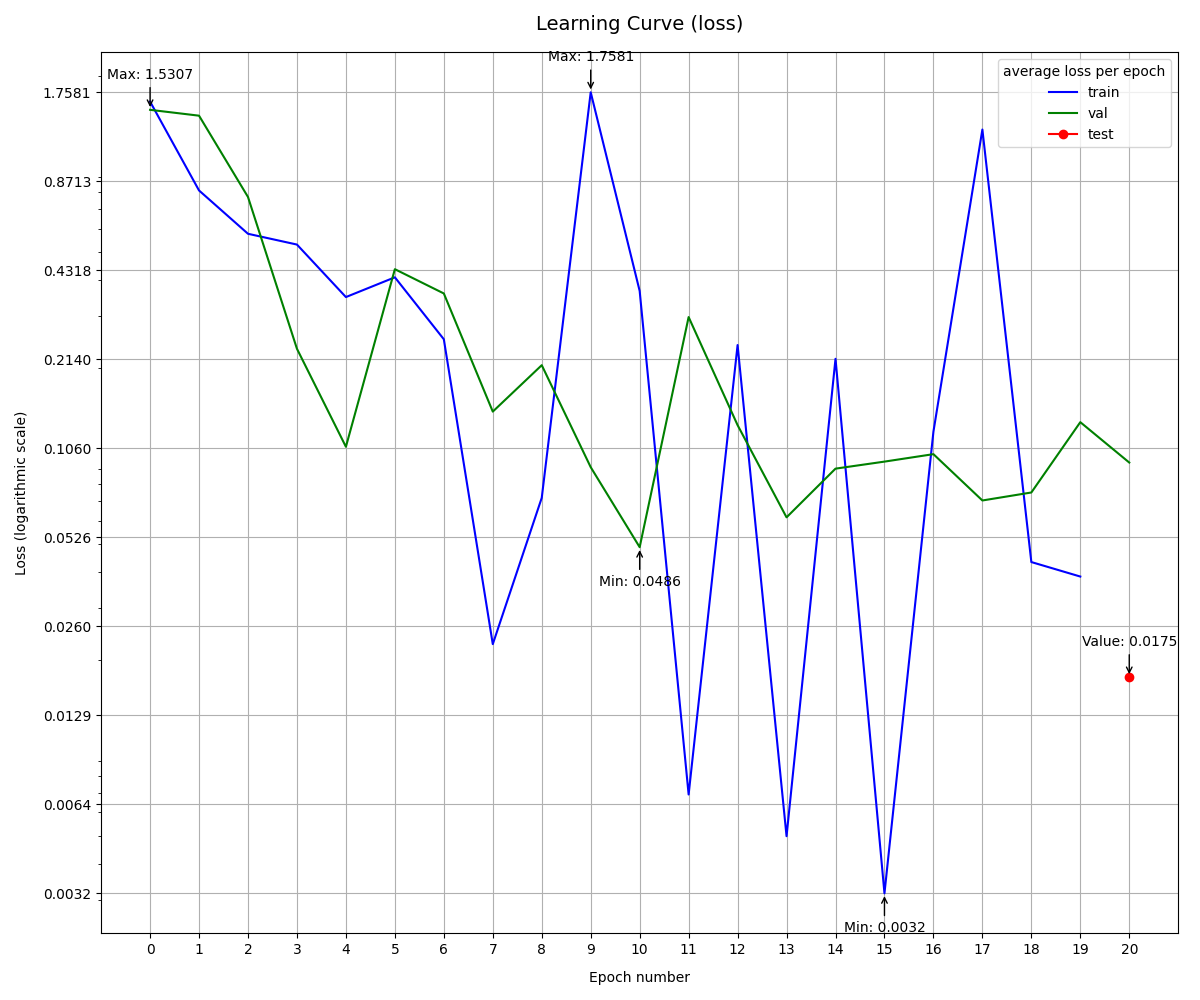
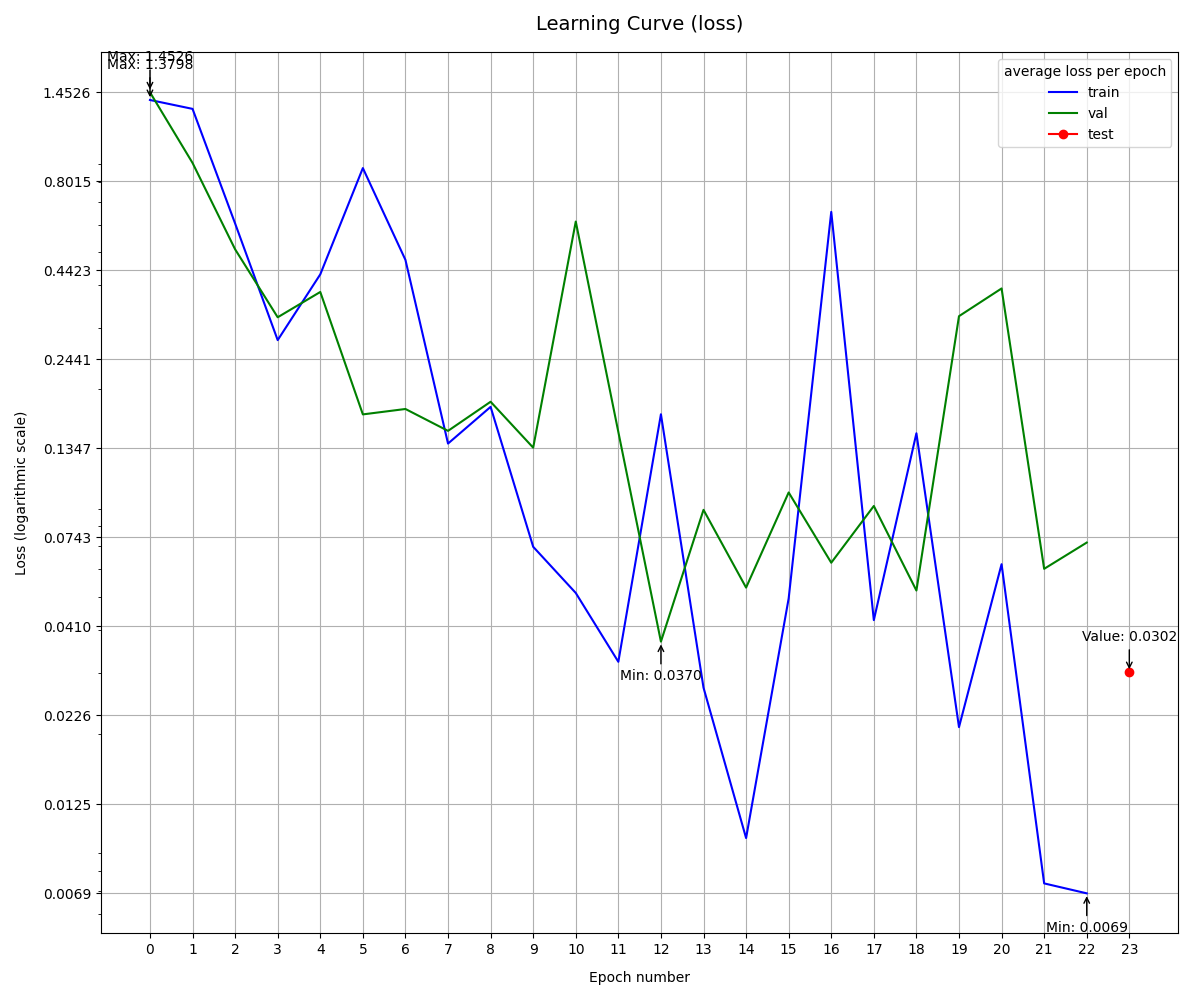
fix: fix metric calculation (#23)
* Take preds not logits as arguemnt

* Initiate metrics inside lightning module

* Remove metrics package

* Remove metrics config. Make metrics weighted

* Remove metrics

* Remove mdetrics config

* SKip metrics for sanity checking

* Update plots & add multilabel classification

* Update plots

* Change train/val/test split

diff --git a/src/machine_learning/classification/module.py b/src/machine_learning/classification/module.py
@@ -5,14 +5,13 @@ from lightning import LightningModule
 from torch import Tensor
 from torch.optim import Optimizer
 from torch.optim.lr_scheduler import LRScheduler
+from torchmetrics import Accuracy, F1Score, MetricCollection, Precision, Recall
 
 from src.common.consts.machine_learning import STAGE_TESTING, STAGE_TRAINING, STAGE_VALIDATION
 from src.machine_learning.augmentations.config import AugmentationsConfig
 from src.machine_learning.augmentations.factory import create_augmentations
 from src.machine_learning.classification.loss_functions.config import ClassificationLossFunctionConfig
 from src.machine_learning.classification.loss_functions.factory import create_loss_function
-from src.machine_learning.classification.metrics.config import ClassificationMetricsConfig
-from src.machine_learning.classification.metrics.factory import create_metrics
 from src.machine_learning.classification.models.config import ClassificationModelConfig
 from src.machine_learning.classification.models.factory import create_model
 from src.machine_learning.optimizer.config import OptimizerConfig
@@ -34,7 +33,6 @@ class ClassificationLightningModule(LightningModule):
         model_config (ClassificationModelConfig): The model configuration.
         loss_function_config (ClassificationLossFunctionConfig): The loss function configuration.
         optimizer_config (OptimizerConfig): The optimizer configuration.
-        metrics_config (ClassificationMetricsConfig): The metrics configuration.
         augmentations_config (Optional[AugmentationsConfig]): The data augmentations configuration.
         scheduler_config (Optional[SchedulerConfig]): The scheduler configuration.
 
@@ -57,7 +55,6 @@ class ClassificationLightningModule(LightningModule):
         model_config: ClassificationModelConfig,
         loss_function_config: ClassificationLossFunctionConfig,
         optimizer_config: OptimizerConfig,
-        metrics_config: ClassificationMetricsConfig,
         augmentations_config: Optional[AugmentationsConfig] = None,
         scheduler_config: Optional[SchedulerConfig] = None,
     ):
@@ -66,13 +63,23 @@ class ClassificationLightningModule(LightningModule):
         self.model_config = model_config
         self.loss_function_config = loss_function_config
         self.optimizer_config = optimizer_config
-        self.metrics_config = metrics_config
         self.augmentations_config = augmentations_config
         self.scheduler_config = scheduler_config
 
         self.model = create_model(config=model_config)
         self.loss_function = create_loss_function(config=loss_function_config)
-        self.metrics = create_metrics(config=metrics_config)
+        self.metrics = MetricCollection(
+            [
+                Accuracy(task="multiclass", num_classes=len(self.classes), average="weighted"),
+                Precision(task="multiclass", num_classes=len(self.classes), average="weighted"),
+                Recall(task="multiclass", num_classes=len(self.classes), average="weighted"),
+                F1Score(task="multiclass", num_classes=len(self.classes), average="weighted"),
+            ]
+        )
+        self.train_metrics = self.metrics.clone(prefix=f"{STAGE_TRAINING}_")
+        self.val_metrics = self.metrics.clone(prefix=f"{STAGE_VALIDATION}_")
+        self.test_metrics = self.metrics.clone(prefix=f"{STAGE_TESTING}_")
+
         self.augmentations = create_augmentations(config=augmentations_config) if augmentations_config else None
 
     def forward(self, x: Tensor) -> Tensor:
@@ -98,7 +105,16 @@ class ClassificationLightningModule(LightningModule):
         preds = logits.argmax(dim=1)
 
         self.log(name=f"{stage}_loss", value=loss)
-        self.log_metrics(logits=logits, targets=y, stage=stage)
+
+        if stage == STAGE_TRAINING:
+            metrics = self.train_metrics
+        elif stage == STAGE_VALIDATION:
+            metrics = self.val_metrics
+        else:
+            metrics = self.test_metrics
+
+        output = metrics(logits, y)
+        self.log_dict(output, on_step=(stage == STAGE_TRAINING), on_epoch=True)
 
         return {"loss": loss, "per_sample_losses": per_sample_losses, "preds": preds, "targets": y}
 
@@ -140,6 +156,26 @@ class ClassificationLightningModule(LightningModule):
             Dict[str, Tensor]: Testing loss.
         """
         return self.evaluation_step(batch=batch, batch_idx=batch_idx, stage=STAGE_TESTING)
+
+    def compute_and_log_metrics(self, metrics: MetricCollection) -> None:
+        """
+        Compute and log metrics for a given stage, and reset them.
+
+        Args:
+            metrics (MetricCollection): The metrics to compute and log.
+        """
+        output = metrics.compute()
+        self.log_dict(output)
+        metrics.reset()
+
+    def on_train_epoch_end(self) -> None:
+        self.compute_and_log_metrics(self.train_metrics)
+
+    def on_validation_epoch_end(self) -> None:
+        self.compute_and_log_metrics(self.val_metrics)
+
+    def on_test_epoch_end(self) -> None:
+        self.compute_and_log_metrics(self.test_metrics)
 
     def on_after_batch_transfer(self, batch: Tuple[Tensor, Tensor], dataloader_idx: int) -> Tuple[Tensor, Tensor]:
         """
@@ -191,32 +227,3 @@ class ClassificationLightningModule(LightningModule):
             Tensor: The computed loss.
         """
         return self.loss_function(logits, targets)
-
-    def log_metrics(self, logits: Tensor, targets: Tensor, stage: str) -> None:
-        """
-        Log metrics to the logger, including class-wise metrics.
-
-        Args:
-            logits (Tensor): The model outputs before activation.
-            targets (Tensor): The true labels.
-            stage (str): The current stage (e.g., training, validation, or testing).
-        """
-        preds = logits.argmax(dim=1)
-
-        for name, metric in self.metrics.items():
-            # Overall metric
-            metric_value = metric(preds, targets)
-            self.log(name=f"{stage}_{name}", value=metric_value, on_step=True, on_epoch=True)
-
-            # Class-wise metrics
-            for class_idx, class_name in self.classes.items():
-                class_targets = (targets == class_idx).int()
-                class_preds = (preds == class_idx).int()
-                class_metric_value = metric(class_preds, class_targets)
-
-                self.log(
-                    name=f"{stage}_{name}_class_{class_idx}_{class_name}",
-                    value=class_metric_value,
-                    on_step=True,
-                    on_epoch=True,
-                )

diff --git a/src/aml/components/classificator_training/arg_parser.py b/src/aml/components/classificator_training/arg_parser.py
@@ -23,7 +23,6 @@ from src.common.utils.dtype_converters import str_to_bool, str_to_dict, str_to_f
 from src.machine_learning.augmentations.config import AugmentationsConfig
 from src.machine_learning.callbacks.config import CallbacksConfig
 from src.machine_learning.classification.loss_functions.config import ClassificationLossFunctionConfig
-from src.machine_learning.classification.metrics.config import ClassificationMetricsConfig
 from src.machine_learning.classification.models.config import ClassificationModelConfig
 from src.machine_learning.loggers.config import LoggersConfig
 from src.machine_learning.optimizer.config import OptimizerConfig
@@ -65,7 +64,6 @@ def create_arg_parser() -> ArgumentParser:
     loss_function_defaults: Dict[str, Any] = defaults.get("loss_function", None)
     optimizer_defaults: Dict[str, Any] = defaults.get("optimizer", None)
     scheduler_defaults: Dict[str, Any] = defaults.get("scheduler", None)
-    metrics_defaults: Dict[str, Any] = defaults.get("metrics", None)
     augmentations_defaults: Dict[str, Any] = defaults.get("augmentations", None)
     callbacks_defaults: Dict[str, Any] = defaults.get("callbacks", None)
     callbacks_early_stopping_defaults: Dict[str, Any] = callbacks_defaults.get("early_stopping", None)
@@ -124,17 +122,6 @@ def create_arg_parser() -> ArgumentParser:
     parser.add_argument(
         "--scheduler_kwargs", type=str, default=scheduler_defaults["extra_arguments"] if scheduler_defaults else {}
     )
-
-    # Metrics
-    parser.add_argument("--task_type", type=str, default=metrics_defaults["task"])
-    for i in range(5):
-        metric_default = metrics_defaults["name_list"][i] if i < len(metrics_defaults["name_list"]) else None
-        metric_kwargs_default = (
-            metrics_defaults["extra_arguments_list"][i] if i < len(metrics_defaults["extra_arguments_list"]) else "{}"
-        )
-
-        parser.add_argument(f"--metric_name_{i + 1}", type=str, default=metric_default)
-        parser.add_argument(f"--metric_name_{i + 1}_kwargs", type=str, default=metric_kwargs_default)
 
     # Augmentations
     for i in range(5):
@@ -325,18 +312,6 @@ def get_config(save_config: bool = False) -> ClassificationConfig:
             "name": args.scheduler_name,
             "extra_arguments": str_to_dict(args.scheduler_kwargs),
         },
-        "metrics": {
-            "name_list": [
-                getattr(args, f"metric_name_{i+1}") for i in range(5) if getattr(args, f"metric_name_{i+1}") is not None
-            ],
-            "extra_arguments_list": [
-                str_to_dict(getattr(args, f"metric_name_{i+1}_kwargs"))
-                for i in range(5)
-                if getattr(args, f"metric_name_{i+1}") is not None
-            ],
-            "task": args.task_type,
-            "num_classes": args.num_classes,
-        },
         "augmentations": {
             "name_list": [
                 getattr(args, f"augmentation_name_{i+1}")
@@ -425,7 +400,6 @@ def get_config(save_config: bool = False) -> ClassificationConfig:
     scheduler_config = (
         SchedulerConfig(**config_dict["scheduler"]) if config_dict["scheduler"]["name"] is not None else None
     )
-    metrics_config = ClassificationMetricsConfig(**config_dict["metrics"])
     augmentations_config = AugmentationsConfig(**config_dict["augmentations"])
     callbacks_config = CallbacksConfig(**config_dict["callbacks"])
     loggers_config = LoggersConfig(**loggers_config_dict)
@@ -438,7 +412,6 @@ def get_config(save_config: bool = False) -> ClassificationConfig:
         loss_function=loss_function_config,
         optimizer=optimizer_config,
         scheduler=scheduler_config,
-        metrics=metrics_config,
         augmentations=augmentations_config,
         callbacks=callbacks_config,
         loggers=loggers_config,

diff --git a/src/aml/components/classificator_training/config.py b/src/aml/components/classificator_training/config.py
@@ -7,7 +7,6 @@ from src.configs.base import MachineLearningConfig
 from src.machine_learning.augmentations.config import AugmentationsConfig
 from src.machine_learning.callbacks.config import CallbacksConfig
 from src.machine_learning.classification.loss_functions.config import ClassificationLossFunctionConfig
-from src.machine_learning.classification.metrics.config import ClassificationMetricsConfig
 from src.machine_learning.classification.models.config import ClassificationModelConfig
 from src.machine_learning.loggers.config import LoggersConfig
 from src.machine_learning.optimizer.config import OptimizerConfig
@@ -25,7 +24,6 @@ class ClassificationConfig(MachineLearningConfig):
     loss_function: ClassificationLossFunctionConfig
     optimizer: OptimizerConfig
     scheduler: Optional[SchedulerConfig] = None
-    metrics: ClassificationMetricsConfig
     augmentations: Optional[AugmentationsConfig] = None
     callbacks: Optional[CallbacksConfig] = None
     loggers: Optional[LoggersConfig] = None

diff --git a/src/aml/components/classificator_training/entrypoint.py b/src/aml/components/classificator_training/entrypoint.py
@@ -29,7 +29,6 @@ def main() -> None:
         model_config=config.model,
         loss_function_config=config.loss_function,
         optimizer_config=config.optimizer,
-        metrics_config=config.metrics,
         augmentations_config=config.augmentations,
         scheduler_config=config.scheduler,
     )
@@ -58,7 +57,6 @@ def main() -> None:
         model_config=config.model,
         loss_function_config=config.loss_function,
         optimizer_config=config.optimizer,
-        metrics_config=config.metrics,
         augmentations_config=config.augmentations,
         scheduler_config=config.scheduler,
     )

diff --git a/src/machine_learning/callbacks/learning_curve.py b/src/machine_learning/callbacks/learning_curve.py
@@ -235,6 +235,11 @@ class LearningCurveCallback(Callback):
             trainer (Trainer): The Trainer object.
             stage (str): The stage name (training, validation, or test).
         """
+        # Skip updates during sanity checks
+        if trainer.sanity_checking:
+            _logger.info("Skipping collecting values during sanity check.")
+            return
+
         loss = trainer.callback_metrics.get(f"{stage}_loss")
         if loss is not None:
             self.epoch_losses[stage].append(loss.item())

diff --git a/src/configs/base.py b/src/configs/base.py
@@ -21,7 +21,6 @@ class MachineLearningConfig(BaseModel):
     loss_function: BaseModel
     optimizer: BaseModel
     scheduler: Optional[BaseModel] = None
-    metrics: BaseModel
     augmentations: Optional[BaseModel] = None
     callbacks: Optional[BaseModel] = None
     loggers: Optional[BaseModel] = None

diff --git a/README.md b/README.md
@@ -50,7 +50,15 @@ For detailed information on installation, development practices, and the project
 The Droplet Drug Detector (DDD) project aims to revolutionize pharmaceutical analysis by using advanced machine learning to analyze high-resolution microscopic images of dried droplets. This cutting-edge approach is designed to improve the identification and quantification of substances, thereby enhancing drug analysis and quality control.
 
 ### Dataset
-The dataset comprises high-resolution microscopic images of various droplet samples, with each droplet being a few microliters in volume. For each substance, approximately 200-300 images of different concentrations are captured under controlled conditions to ensure data consistency and reliability. The dataset includes images of substances like gelatin capsules, lactose, methyl-cellulose, naproxen, pearlitol, and polyvinyl-alcohol.
+The dataset comprises high-resolution microscopic images of various droplet samples, with each droplet being a few microliters in volume. Approximately 2000 images of substance droplets of different concentrations were captured under controlled conditions to ensure data consistency and reliability. The dataset includes images of the following substances:
+- gelatin capsules,
+- lactose,
+- methyl-cellulose,
+- naproxen,
+- pearlitol
+- polyvinyl-alcohol.
+
+Future expansions of the dataset will include images of droplets containing mixtures of these substances.
 
 #### Theoretical basis
 This project is based on the study of patterns formed in dried droplets, commonly referred to as the 'coffee ring effect'. These patterns are influenced by the substance's physical and chemical properties, concentration, and interaction within the mixture, providing valuable information for substance analysis.
@@ -73,11 +81,12 @@ Images are captured under strictly controlled conditions to guarantee data consi
 
 ### Analysis goals
 
-1. **Substance Classification**: Develop a model to classify substances based on distinct patterns in dried droplet images, using Convolutional Neural Networks (CNNs) and Vision Transformers.
+1. **Single-Substance Classification**: Develop a model to classify individual substances based on the patterns in dried droplet images.
+2. **Multiple-Substance Classification**: Extend the model to classify mixtures of substances, addressing the added complexity of inter-substance interactions.
 2. **Concentration Estimation**: Design and implement regression models to accurately estimate the concentration levels of the substances. We aim to introduce novel methodologies in this area.
 3. **Rare Substance Detection**: Develop a Siamese network-based approach for identifying rare substances. This network will be trained on existing data, emphasizing its utility in scenarios with limited sample availability.
 
-### Substance Classification
+### Single-Substance Classification
 
 (Work in progress)
 
@@ -85,27 +94,43 @@ Images are captured under strictly controlled conditions to guarantee data consi
 A few experiments were conducted to determine a baseline model and hyperparameters for further experiments.
 
 - **Epochs**: 50 (max), with early stopping implemented to prevent overfitting.
-- **Data Split**: Stratified split (50:25:25 for training, validation & test subsets) across substances and concentration levels.
+- **Data Split**: Stratified split (10:10:80 for training, validation & test subsets) across substances and concentration levels.
 - **Preprocessing**: Normalization, resizing to 256x256 pixels.
 - **Data Augmentation**: Color jitter, random gaussian noise, mirroring, and rotation.
-- **Model Architecture**: Resnet18.
+- **Model Architecture**: ResNet18.
 - **Loss Function**: Cross-entropy.
 - **Optimizer**: Adam with a constant learning rate of 3e-4.
 
 <table>
   <tr>
-    <td align="center"><em>Learning curves</em></td>
-    <td align="center"><em>Confusion matrix</em></td>
+    <td align="center"><em>Learning curves (loss)</em></td>
+    <td align="center"><em>Learning curves (F1 score)</em></td>
   </tr>
   <tr>
-    <td><img src="assets/learning_curves/learning_curve_loss.png" width="100%" alt="Learning curves"/></td>
-    <td><img src="assets/confusion_matrix/confusion_matrix.png" width="100%" alt="Confusion matrix"/></td>
+    <td><img src="assets/learning_curves/learning_curve_loss.png" width="100%" alt="Learning curves (loss)"/></td>
+    <td><img src="assets/learning_curves/learning_curve_f1.png" width="100%" alt="Learning curves (F1 score)"/></td>
   </tr>
 </table>
 
 #### Model Evaluation
-- **Metrics**: Accuracy, F1 score, precision, and recall.
-- **Results**: Our initial experiments yielded a very high F1-score (**0.9933**), indicating robust model performance.
+- **Metrics**: Accuracy, precision, recall and F1 score.
+- **Results**: Our initial experiments yielded a very high F1-score (**0.9933**) on the **test set**, indicating robust model performance.
+
+| Experiment      | Accuracy   | Precision   | Recall   | F1 score   |
+|-----------------|------------|-------------|----------|------------|
+| Base experiment | 0.993292   | 0.993328    | 0.993292 | 0.993297   |
+| coming soon     | -          | -           | -        | -          |
+
+<table>
+  <tr>
+    <td align="center"><em>Confusion matrix (best validation epoch)</em></td>
+    <td align="center"><em>Confusion matrix (test set)</em></td>
+  </tr>
+  <tr>
+    <td><img src="assets/confusion_matrix/confusion_matrix_val.png" width="100%" alt="Confusion matrix (best validation epoch)"/></td>
+    <td><img src="assets/confusion_matrix/confusion_matrix_test.png" width="100%" alt="Confusion matrix (test set)"/></td>
+  </tr>
+</table>
 
 
 #### Explainability
@@ -158,6 +183,8 @@ A few experiments were conducted to determine a baseline model and hyperparamete
   </tr>
 </table>
 
+### Multiple-Substance Classification
+(To be added) This section will discuss the challenges associated with classifying mixtures of substances and our approach to addressing them.
 
 ### Concentration Estimation
 (To be added) This section will detail our methodology for developing regression models aimed at quantifying substance concentrations.
